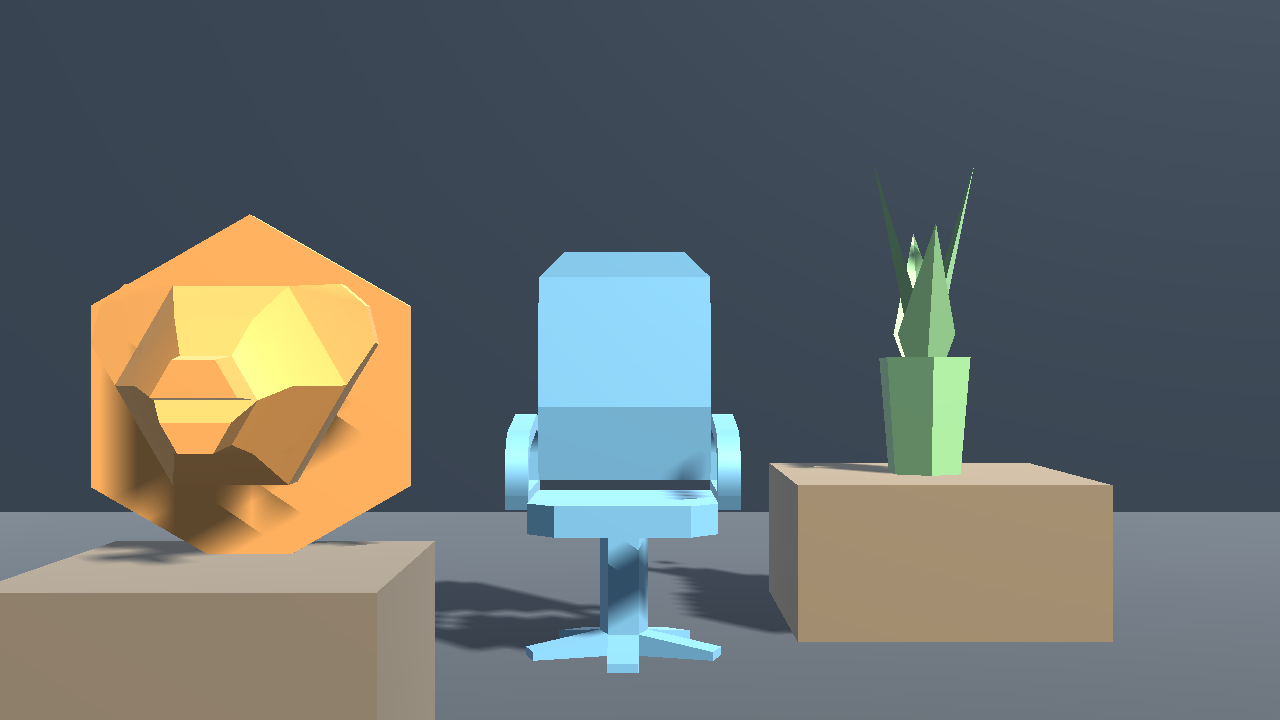
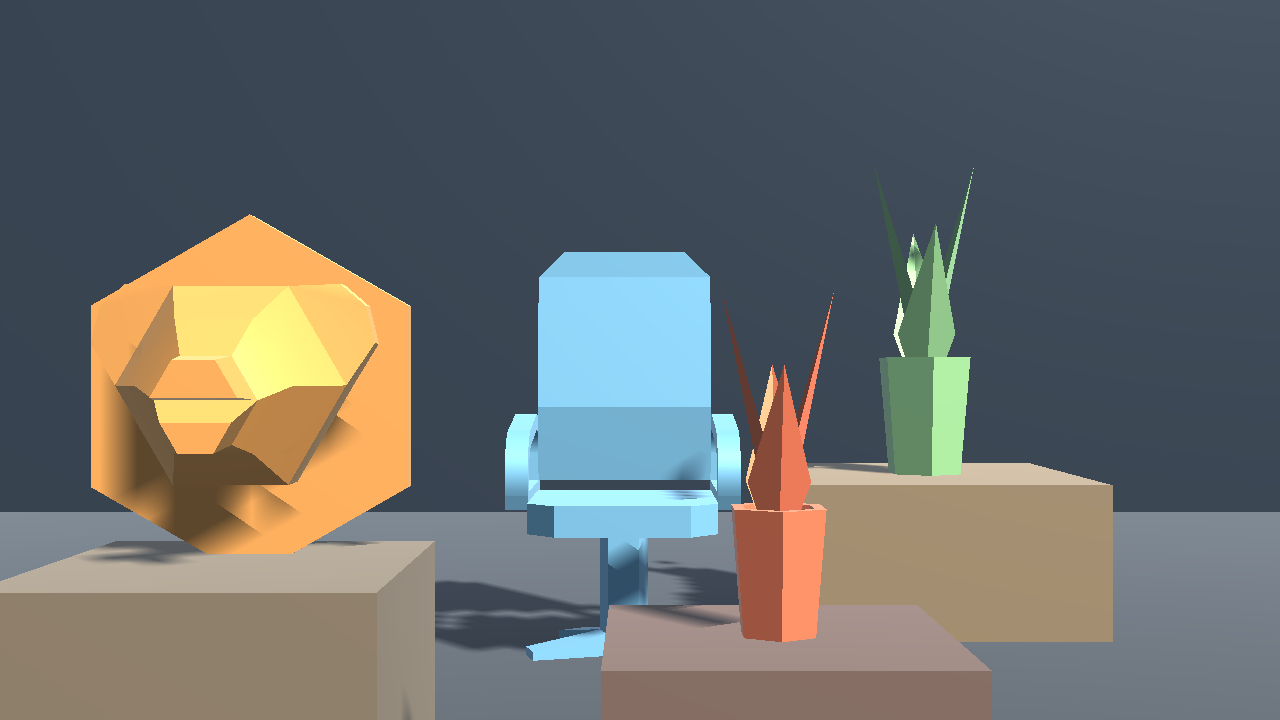
Add pronounced foreground model to demo

Changed region(s): [[0.4688, 0.4583, 0.7812, 1.0]]

diff --git a/Demo/Assets/Tests/PlayMode/SceneSmokeTests.cs b/Demo/Assets/Tests/PlayMode/SceneSmokeTests.cs
@@ -17,21 +17,31 @@ namespace HeadTracked.Demo.Tests
             yield return null;
 
             var front = GameObject.Find("Bear, in front of screen");
+            var protruding = GameObject.Find("Plant, 18 cm in front of screen");
             var chair = GameObject.Find("Chair, behind screen");
             var plant = GameObject.Find("Plant, behind chair");
             Assert.That(front, Is.Not.Null);
+            Assert.That(protruding, Is.Not.Null);
             Assert.That(chair, Is.Not.Null);
             Assert.That(plant, Is.Not.Null);
             Assert.That(front.GetComponentInChildren<MeshFilter>(), Is.Not.Null);
+            Assert.That(protruding.GetComponentInChildren<MeshFilter>(), Is.Not.Null);
             Assert.That(chair.GetComponentInChildren<MeshFilter>(), Is.Not.Null);
             Assert.That(plant.GetComponentInChildren<MeshFilter>(), Is.Not.Null);
             Assert.That(front.GetComponentInChildren<Renderer>().bounds.center.z, Is.LessThan(0f));
+            Assert.That(protruding.GetComponentInChildren<Renderer>().bounds.center.z, Is.LessThan(-0.1f));
             Assert.That(chair.GetComponentInChildren<Renderer>().bounds.center.z, Is.GreaterThan(0f));
             Assert.That(plant.GetComponentInChildren<Renderer>().bounds.center.z, Is.GreaterThan(0f));
             Assert.That(front.GetComponentInChildren<HeadTrackedDisplay>(), Is.Null);
+            Assert.That(protruding.GetComponentInChildren<HeadTrackedDisplay>(), Is.Null);
             Assert.That(chair.GetComponentInChildren<HeadTrackedDisplay>(), Is.Null);
             Assert.That(plant.GetComponentInChildren<HeadTrackedDisplay>(), Is.Null);
             Assert.That(Camera.main.GetComponent<HeadTrackedDisplay>(), Is.Not.Null);
+            Vector3 protrudingViewport = Camera.main.WorldToViewportPoint(
+                protruding.GetComponentInChildren<Renderer>().bounds.center);
+            Assert.That(protrudingViewport.z, Is.GreaterThan(0f));
+            Assert.That(protrudingViewport.x, Is.InRange(0f, 1f));
+            Assert.That(protrudingViewport.y, Is.InRange(0f, 1f));
 
             string screenshotPath = System.Environment.GetEnvironmentVariable("HEADTRACK_CAPTURE");
             if (!string.IsNullOrEmpty(screenshotPath))

diff --git a/Demo/Assets/Scripts/DemoBootstrap.cs b/Demo/Assets/Scripts/DemoBootstrap.cs
@@ -56,7 +56,7 @@ namespace HeadTracked.Demo
 
         private void MakeEnvironment()
         {
-            MakeBox("Floor", new Vector3(0f, -0.19f, 0.53f), new Vector3(1.55f, 0.02f, 1.2f),
+            MakeBox("Floor", new Vector3(0f, -0.19f, 0.43f), new Vector3(1.55f, 0.02f, 1.42f),
                 new Color(0.28f, 0.30f, 0.32f));
             MakeBox("Back wall", new Vector3(0f, 0.25f, 1.12f), new Vector3(1.55f, 0.9f, 0.02f),
                 new Color(0.18f, 0.22f, 0.27f));
@@ -64,6 +64,8 @@ namespace HeadTracked.Demo
                 new Color(0.55f, 0.48f, 0.38f));
             MakeBox("Front plinth", new Vector3(-0.16f, -0.13f, -0.035f), new Vector3(0.14f, 0.10f, 0.14f),
                 new Color(0.49f, 0.44f, 0.37f));
+            MakeBox("Protruding plinth", new Vector3(0.04f, -0.13f, -0.18f), new Vector3(0.10f, 0.10f, 0.10f),
+                new Color(0.45f, 0.37f, 0.34f));
 
             AddModel("Models/bear", "Bear, in front of screen", new Vector3(-0.16f, -0.015f, -0.04f),
                 0.15f, new Color(0.88f, 0.61f, 0.32f));
@@ -71,6 +73,8 @@ namespace HeadTracked.Demo
                 0.25f, new Color(0.44f, 0.68f, 0.81f));
             AddModel("Models/pottedPlant", "Plant, behind chair", new Vector3(0.20f, 0.03f, 0.42f),
                 0.22f, new Color(0.55f, 0.76f, 0.53f));
+            AddModel("Models/pottedPlant", "Plant, 18 cm in front of screen", new Vector3(0.04f, -0.03f, -0.18f),
+                0.10f, new Color(0.90f, 0.46f, 0.33f));
 
             var sun = new GameObject("Soft key light").AddComponent<Light>();
             sun.type = LightType.Directional;
@@ -272,7 +276,8 @@ namespace HeadTracked.Demo
                         source.GetType().GetMethod("SelectWebcam")?.Invoke(source, new object[] { device.name });
             }
             GUILayout.Label(notice);
-            GUILayout.Label("Move left/right and forward/back. Models need no tracking scripts.");
+            GUILayout.Label("Move left/right and forward/back. The red plant is 18 cm in front of the screen.");
+            GUILayout.Label("Models need no tracking scripts; the monitor edge still clips them.");
             GUILayout.EndArea();
         }
 

diff --git a/Packages/com.headtracked.display/Tests/Editor/ProjectionTests.cs b/Packages/com.headtracked.display/Tests/Editor/ProjectionTests.cs
@@ -32,6 +32,8 @@ namespace HeadTracked.Display.Tests
         [TestCase(0.12f, 0.03f, -0.6f, -0.08f, 0.04f, 0.4f)]
         [TestCase(-0.1f, -0.05f, -0.4f, 0.05f, -0.03f, -0.1f)]
         [TestCase(0.03f, 0.07f, -0.9f, 0.17f, 0.1f, 0.8f)]
+        [TestCase(-0.1f, 0.04f, -0.6f, 0.04f, -0.03f, -0.18f)]
+        [TestCase(0.1f, -0.04f, -0.6f, 0.04f, -0.03f, -0.18f)]
         public void ProjectionEqualsThePhysicalEyeScreenObjectSightline(
             float ex, float ey, float ez, float px, float py, float pz)
         {

diff --git a/README.md b/README.md
@@ -4,7 +4,7 @@
 
 Head Tracked Display makes an ordinary monitor behave like a window into a fixed 3D scene. A webcam estimates one viewer's eye position. Unity moves the render camera to that position and updates an **off-axis perspective projection** for the measured screen. Put any ordinary 3D model behind or in front of the screen plane; no script or head-driven rotation is added to the model.
 
-![The Unity URP demo at the neutral viewpoint: a bear in front of the screen plane, with a chair and plant behind it](docs/demo-neutral.png)
+![The Unity URP demo at the neutral viewpoint: a bear and a red plant in front of the screen plane, with a chair and green plant behind it](docs/demo-neutral.png)
 
 This is a **single-viewer, monoscopic** display. It provides motion parallax, not separate images for the left and right eyes.
 
@@ -13,7 +13,7 @@ This is a **single-viewer, monoscopic** display. It provides motion parallax, no
 | Path | Purpose |
 | --- | --- |
 | [`Packages/com.headtracked.display`](Packages/com.headtracked.display) | Reusable Unity Package Manager package: projection, calibration, eye pose, tracker interface, and optional tracking sources. |
-| [`Demo`](Demo) | Unity 6.3 LTS URP project with three real FBX meshes at different physical depths. |
+| [`Demo`](Demo) | Unity 6.3 LTS URP project with four real FBX model instances at different physical depths. |
 | [`python_tracker`](python_tracker) | MediaPipe Face Landmarker webcam tracker and OpenCV camera calibration tool. |
 | [`tools`](tools) | Optional Unity plugin setup and printable checkerboard. |
 
@@ -25,7 +25,7 @@ Double-click [`Run-HeadTrackedDemo.cmd`](Run-HeadTrackedDemo.cmd). It starts the
 
 The Windows player lives at `Builds/HeadTrackedDemo/HeadTrackedDemo.exe` in the prepared checkout. Build output, the Python environment, and the Face Landmarker model are deliberately excluded from Git; a new clone needs the setup below.
 
-In the demo, wait for **Tracking: FACE FOUND**. Move your head left/right, up/down, and toward/away from the monitor. If it stays at **NO FACE**, check the webcam number, lighting, and camera permission. Enter the physical display measurements and capture a reference distance before judging the geometry.
+In the demo, wait for **Tracking: FACE FOUND**. Move your head left/right, up/down, and toward/away from the monitor. The red plant is 18 cm in front of the screen plane; it should shift in the opposite direction from the chair and green plant behind the screen. If it stays at **NO FACE**, check the webcam number, lighting, and camera permission. Enter the physical display measurements and capture a reference distance before judging the geometry.
 
 ### Build and run from source
 
@@ -98,7 +98,7 @@ Sₓᵧ = Eₓᵧ + [ d / (d + z) ] (Pₓᵧ − Eₓᵧ)
 
 `OffAxisProjection` chooses the asymmetric frustum so Unity draws `P` at exactly that screen crossing. The render camera translates with the eye but keeps the screen plane's orientation. Models retain their own world position and rotation. A pure face turn with a stationary eye position therefore should not move or rotate a model. A real eye translation reveals a different side of a 3D object, as looking through a physical window would.
 
-For example, at a 60 cm viewing distance, a 10 cm eye move to the right shifts a centered point **30 cm behind** the screen by about **3.3 cm on the screen**. A point on the screen plane does not shift; a point in front shifts in the opposite direction. This is physical motion parallax, not model rotation. The [Unity custom projection matrix API](https://docs.unity3d.com/ScriptReference/Camera-projectionMatrix.html) is used to render it.
+For example, at a 60 cm viewing distance, a 10 cm eye move to the right shifts a centered point **30 cm behind** the screen by about **3.3 cm on the screen**. A point on the screen plane does not shift; a point **18 cm in front** shifts about **4.3 cm in the opposite direction**. Foreground geometry remains valid only while it is between the eye and the screen, outside the camera near clip plane. Anything projected beyond the monitor rectangle is physically clipped. This is motion parallax, not model rotation. The [Unity custom projection matrix API](https://docs.unity3d.com/ScriptReference/Camera-projectionMatrix.html) is used to render it.
 
 ## Use it in another Unity project
 
@@ -114,7 +114,7 @@ Game code can read `EyePositionMeters`, `IsTracking`, `Confidence`, and `SourceS
 
 ## Validation and limitations
 
-The automated suite checks screen corners, physical eye-to-object sightlines at multiple depths, Unity's actual camera viewport projection, parallax direction and scale, and yaw-compensated distance in basic and precise modes. The latest run passed **14/14 Unity EditMode**, **2/2 Unity PlayMode with the optional plugin**, and **3/3 Python protocol** tests. Run them with Unity Test Runner's EditMode and PlayMode tabs, and run the Python tests with:
+The automated suite checks screen corners, physical eye-to-object sightlines at multiple depths, Unity's actual camera viewport projection, parallax direction and scale, and yaw-compensated distance in basic and precise modes. The latest run passed **16/16 Unity EditMode** and **1/1 Unity PlayMode** tests in the core demo. A prior run with the optional Unity MediaPipe plugin installed passed **2/2 PlayMode** tests, and the Python protocol suite passed **3/3** tests. Run them with Unity Test Runner's EditMode and PlayMode tabs, and run the Python tests with:
 
 ```powershell
 ./python_tracker/.venv/Scripts/python.exe -m unittest discover -s python_tracker -p 'test_*.py' -v
